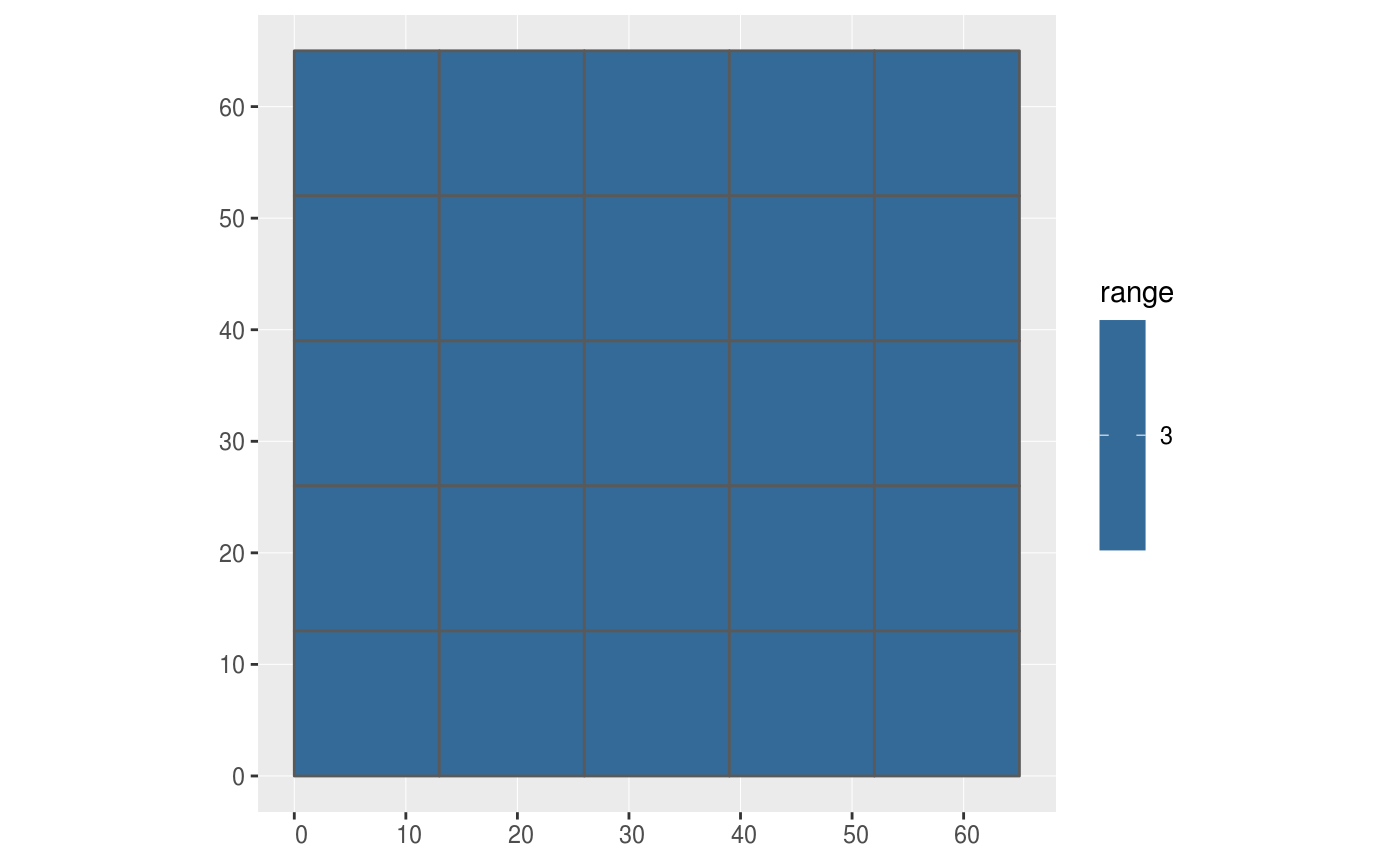
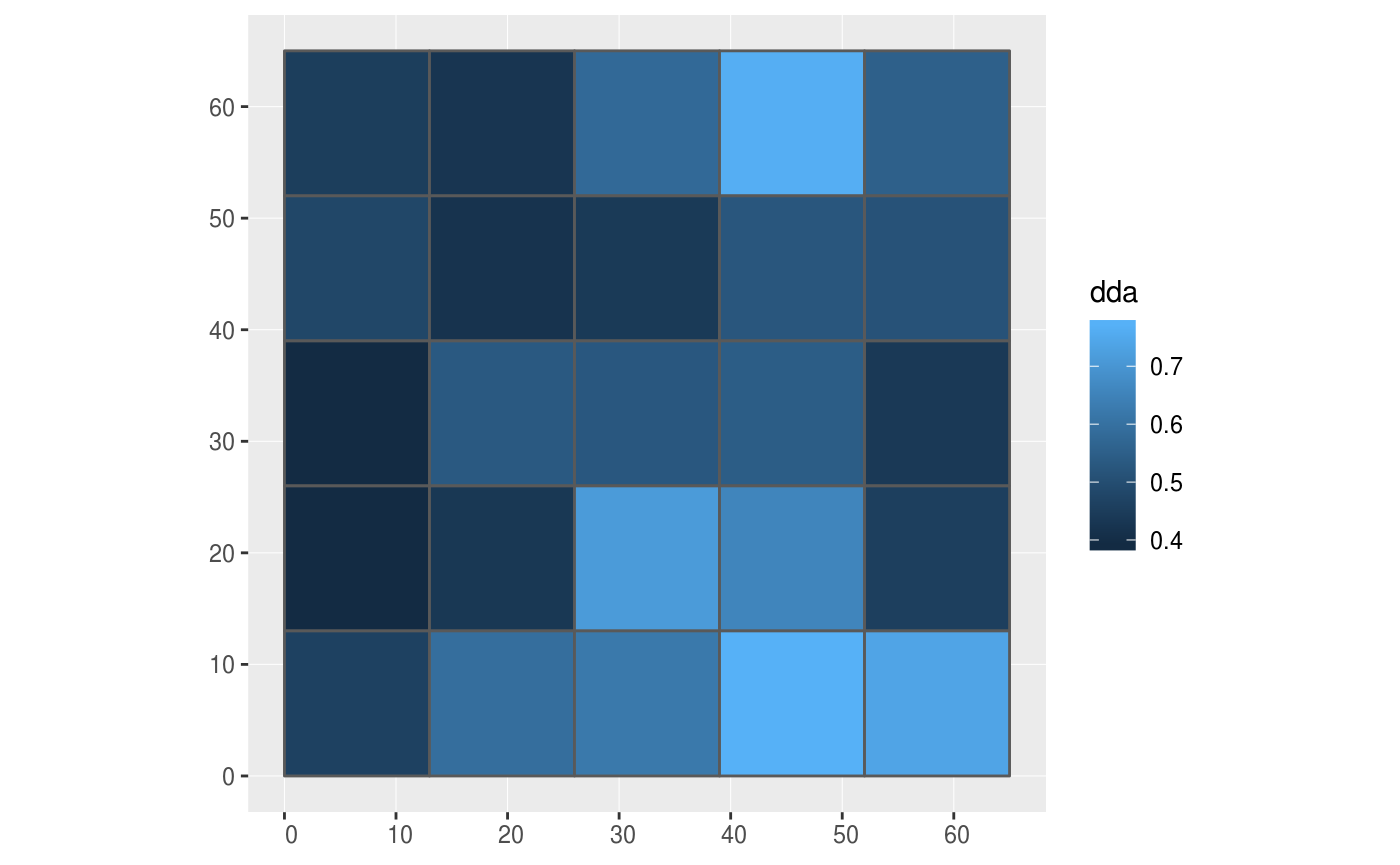
Built site for grainchanger: 0.1.0.9000@0722230

diff --git a/articles/getting-started.html b/articles/getting-started.html
@@ -133,14 +133,14 @@
 <a href="#direct-data-aggregation" class="anchor"></a>Direct data aggregation</h3>
 <p>The direct method simply aggregates to the grid using the specified function, essentially acting as a wrapper for the <code>raster</code> aggregate function.</p>
 <p>The below example shows the direct data aggregation in action. It aggregates a continuous raster to a grid using the range as the function calculated for each cell of the larger grid. This value is included as a column on the grid <code>sf</code> object. <code>var_range</code> is an inbuilt function in the <code>grainchanger</code> package.</p>
-<div class="sourceCode" id="cb3"><pre class="sourceCode r"><code class="sourceCode r"><a class="sourceLine" id="cb3-1" data-line-number="1">g_sf<span class="op">$</span>range &lt;-<span class="st"> </span><span class="kw"><a href="../reference/nomove_agg.html">nomove_agg</a></span>(</a>
-<a class="sourceLine" id="cb3-2" data-line-number="2">  <span class="dt">g =</span> g_sf,</a>
-<a class="sourceLine" id="cb3-3" data-line-number="3">  <span class="dt">dat =</span> cat_ls, </a>
-<a class="sourceLine" id="cb3-4" data-line-number="4">  <span class="dt">fun =</span> <span class="st">"var_range"</span>)</a>
-<a class="sourceLine" id="cb3-5" data-line-number="5"></a>
-<a class="sourceLine" id="cb3-6" data-line-number="6"><span class="kw"><a href="https://www.rdocumentation.org/packages/landscapetools/topics/show_landscape">show_landscape</a></span>(cont_ls)</a>
+<div class="sourceCode" id="cb3"><pre class="sourceCode r"><code class="sourceCode r"><a class="sourceLine" id="cb3-1" data-line-number="1"><span class="kw"><a href="https://www.rdocumentation.org/packages/landscapetools/topics/show_landscape">show_landscape</a></span>(cont_ls)</a>
+<a class="sourceLine" id="cb3-2" data-line-number="2"></a>
+<a class="sourceLine" id="cb3-3" data-line-number="3">g_sf<span class="op">$</span>dda &lt;-<span class="st"> </span><span class="kw"><a href="../reference/nomove_agg.html">nomove_agg</a></span>(</a>
+<a class="sourceLine" id="cb3-4" data-line-number="4">  <span class="dt">g =</span> g_sf,</a>
+<a class="sourceLine" id="cb3-5" data-line-number="5">  <span class="dt">dat =</span> cont_ls, </a>
+<a class="sourceLine" id="cb3-6" data-line-number="6">  <span class="dt">fun =</span> <span class="st">"var_range"</span>)</a>
 <a class="sourceLine" id="cb3-7" data-line-number="7"></a>
-<a class="sourceLine" id="cb3-8" data-line-number="8"><span class="kw"><a href="https://ggplot2.tidyverse.org/reference/ggplot.html">ggplot</a></span>(g_sf) <span class="op">+</span><span class="st"> </span><span class="kw"><a href="https://ggplot2.tidyverse.org/reference/ggsf.html">geom_sf</a></span>(<span class="kw"><a href="https://ggplot2.tidyverse.org/reference/aes.html">aes</a></span>(<span class="dt">fill =</span> range))</a></code></pre></div>
+<a class="sourceLine" id="cb3-8" data-line-number="8"><span class="kw"><a href="https://ggplot2.tidyverse.org/reference/ggplot.html">ggplot</a></span>(g_sf) <span class="op">+</span><span class="st"> </span><span class="kw"><a href="https://ggplot2.tidyverse.org/reference/ggsf.html">geom_sf</a></span>(<span class="kw"><a href="https://ggplot2.tidyverse.org/reference/aes.html">aes</a></span>(<span class="dt">fill =</span> dda))</a></code></pre></div>
 <p><img src="getting-started_files/figure-html/dda_example-1.png" width="700"><img src="getting-started_files/figure-html/dda_example-2.png" width="700"></p>
 </div>
 </div>
